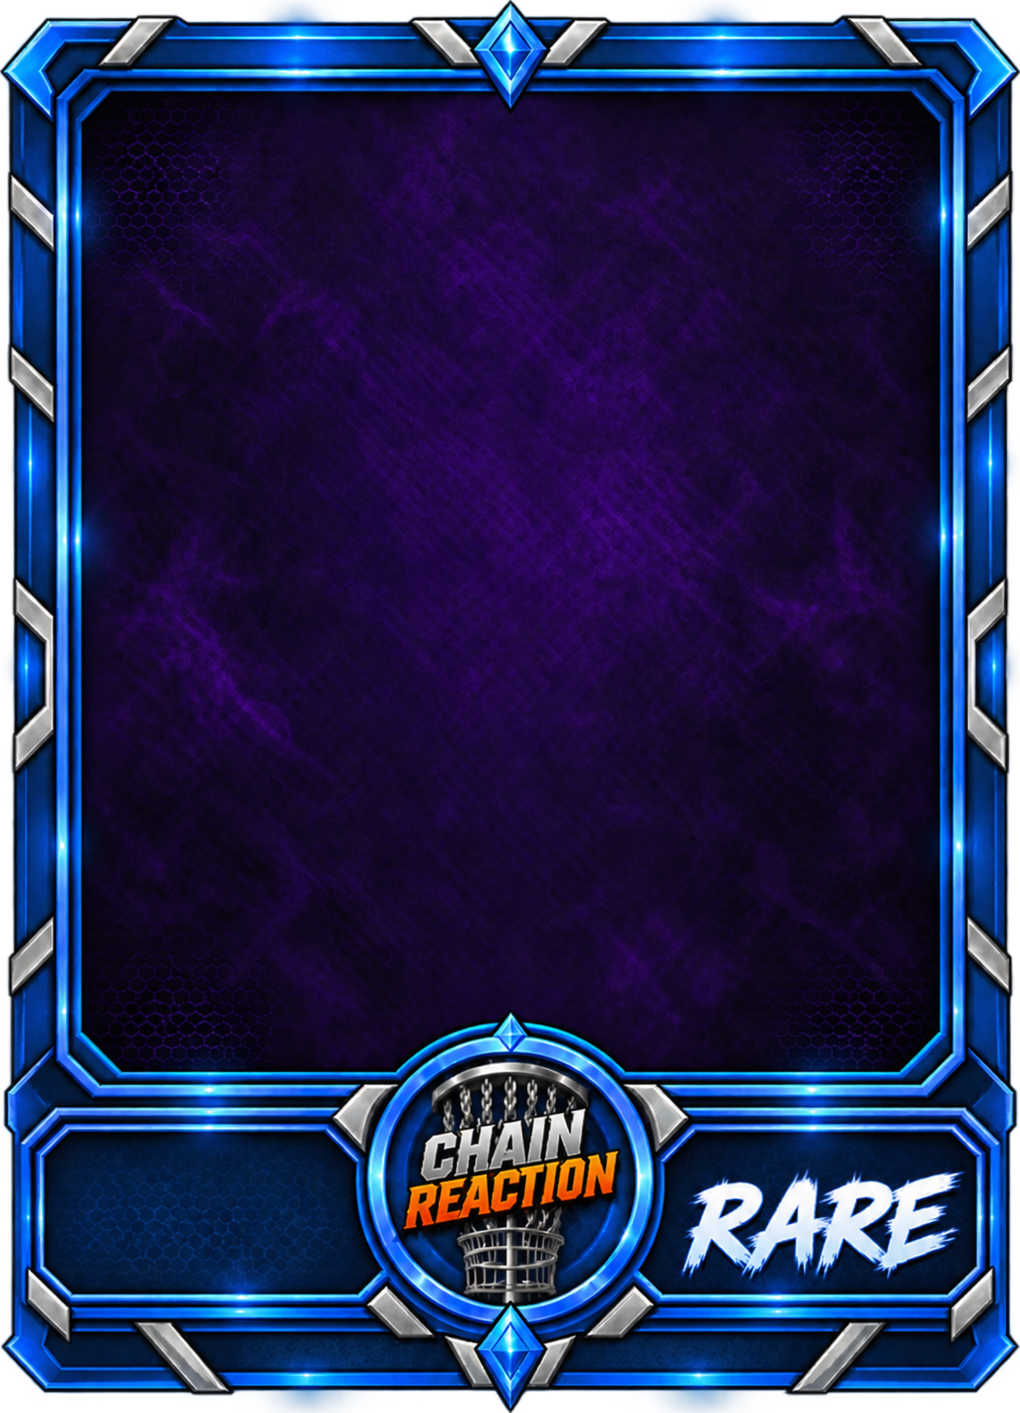
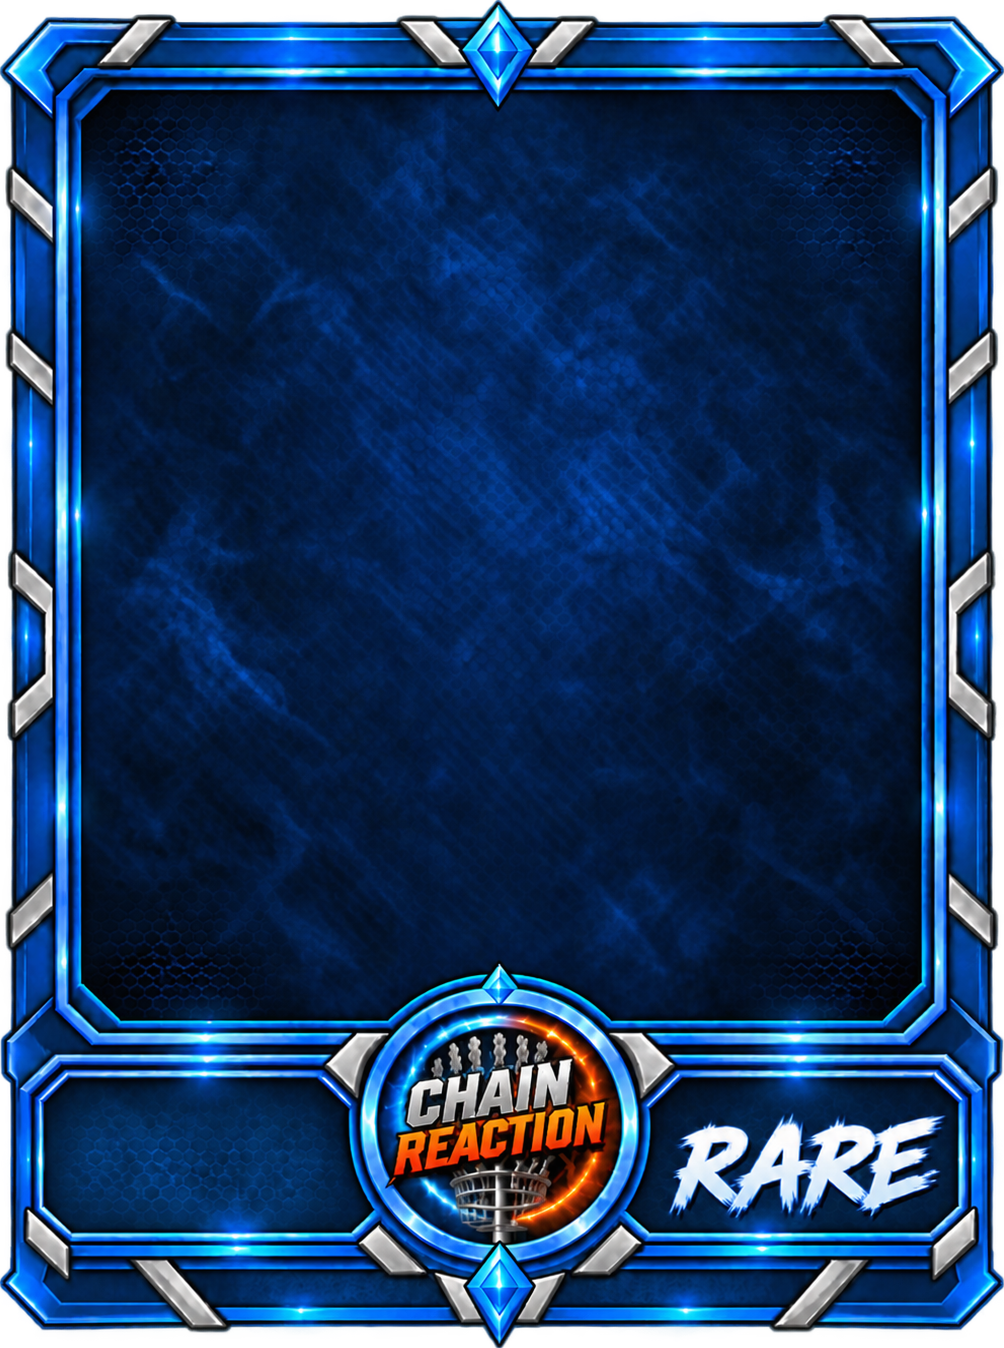
The fixed rare frame
Ratio 0.7448, and its window and foot bar measured off it the same way
as the others — no numbers carried over from the frame it replaces.

All fourteen rare cards checked on it: nothing spilling, rules text
between 23.6 and 25.6px, which is the deck's standard size for all but
the wordiest.

diff --git a/docs/index.html b/docs/index.html
@@ -1197,7 +1197,7 @@ var CARD_ART = {"31":"assets/card_31.png","43":"assets/card_43.png","54":"assets
 var ART_BOXES = {"31":{"x":0.1065,"y":0.6841,"w":0.786,"h":0.1319,"ar":0.7347},"43":{"x":0.1054,"y":0.7005,"w":0.7902,"h":0.1171,"ar":0.7242},"54":{"x":0.1065,"y":0.6968,"w":0.7889,"h":0.1286,"ar":0.723},"57":{"x":0.1061,"y":0.6655,"w":0.7877,"h":0.1597,"ar":0.7453},"59":{"x":0.1037,"y":0.7018,"w":0.7916,"h":0.1287,"ar":0.7187}};
 /* One frame per rarity, worn by every card of that rarity with no painting of
    its own. The same shape as an art box, plus the picture to wear. */
-var ART_FRAMES = {"common":{"image":"assets/frame_common.png","ar":0.742,"timing":{"x":0.058,"y":0.0445,"w":0.8841,"h":0.0328},"title":{"x":0.058,"y":0.0787,"w":0.8841,"h":0.0897},"text":{"x":0.0914,"y":0.1844,"w":0.8173,"h":0.5729},"kind":{"x":0.0707,"y":0.8732,"w":0.2682,"h":0.0641}},"epic":{"image":"assets/frame_epic.png","ar":0.7082,"timing":{"x":0.0851,"y":0.0938,"w":0.8308,"h":0.026},"title":{"x":0.0851,"y":0.1212,"w":0.8308,"h":0.0726},"text":{"x":0.118,"y":0.2075,"w":0.765,"h":0.4637},"kind":{"x":0.0783,"y":0.8233,"w":0.2573,"h":0.0527}},"rare":{"image":"assets/frame_rare.png","ar":0.7219,"timing":{"x":0.0892,"y":0.0686,"w":0.8353,"h":0.029},"title":{"x":0.0892,"y":0.0991,"w":0.8353,"h":0.08},"text":{"x":0.1225,"y":0.1932,"w":0.7686,"h":0.5103},"kind":{"x":0.0676,"y":0.8259,"w":0.2706,"h":0.0644}},"uncommon":{"image":"assets/frame_uncommon.png","ar":0.7502,"timing":{"x":0.0601,"y":0.0554,"w":0.8798,"h":0.0318},"title":{"x":0.0601,"y":0.088,"w":0.8798,"h":0.0872},"text":{"x":0.0936,"y":0.1914,"w":0.8128,"h":0.5565},"kind":{"x":0.0709,"y":0.8744,"w":0.2542,"h":0.0628}}};
+var ART_FRAMES = {"common":{"image":"assets/frame_common.png","ar":0.742,"timing":{"x":0.058,"y":0.0445,"w":0.8841,"h":0.0328},"title":{"x":0.058,"y":0.0787,"w":0.8841,"h":0.0897},"text":{"x":0.0914,"y":0.1844,"w":0.8173,"h":0.5729},"kind":{"x":0.0707,"y":0.8732,"w":0.2682,"h":0.0641}},"epic":{"image":"assets/frame_epic.png","ar":0.7082,"timing":{"x":0.0851,"y":0.0938,"w":0.8308,"h":0.026},"title":{"x":0.0851,"y":0.1212,"w":0.8308,"h":0.0726},"text":{"x":0.118,"y":0.2075,"w":0.765,"h":0.4637},"kind":{"x":0.0783,"y":0.8233,"w":0.2573,"h":0.0527}},"rare":{"image":"assets/frame_rare.png","ar":0.7448,"timing":{"x":0.0777,"y":0.0742,"w":0.8436,"h":0.0282},"title":{"x":0.0777,"y":0.1039,"w":0.8436,"h":0.0786},"text":{"x":0.1116,"y":0.1966,"w":0.7759,"h":0.5007},"kind":{"x":0.0657,"y":0.8242,"w":0.259,"h":0.0645}},"uncommon":{"image":"assets/frame_uncommon.png","ar":0.7502,"timing":{"x":0.0601,"y":0.0554,"w":0.8798,"h":0.0318},"title":{"x":0.0601,"y":0.088,"w":0.8798,"h":0.0872},"text":{"x":0.0936,"y":0.1914,"w":0.8128,"h":0.5565},"kind":{"x":0.0709,"y":0.8744,"w":0.2542,"h":0.0628}}};
 
 /*
  * A painted card with its words dropped into the panel the painting left empty.
@@ -1413,7 +1413,7 @@ applyCharacterNames();
  * plus the time it was built. Shown at the foot of the menu and of Settings, so
  * the group can hold two phones side by side and see who needs to reload.
  */
-var APP_VERSION = "v1.383 · 7 Sep 13:57";
+var APP_VERSION = "v1.384 · 7 Sep 13:58";
 function versionLine() {
   // Just the number on screen — the full build stamp stays in APP_VERSION for
   // the lobby's stale-phone check. The arrow beside it goes and looks for a

diff --git a/docs/sw.js b/docs/sw.js
@@ -1,5 +1,5 @@
 /* Generated by web/build.js — do not edit. */
-const PAGE_CACHE = "chainreaction-page-daa2c1f08216";
+const PAGE_CACHE = "chainreaction-page-0ace8fa74568";
 /* Named once and kept. What is in it is decided file by file, below. */
 const ASSET_CACHE = "chainreaction-assets";
 const PAGE_FILES = [
@@ -55,7 +55,7 @@ const ASSET_HASHES = {
   "assets/character_15.png": "0b91425dab21",
   "assets/frame_common.png": "b951b6ff8b99",
   "assets/frame_epic.png": "5717ace1cde4",
-  "assets/frame_rare.png": "31bb651e48dc",
+  "assets/frame_rare.png": "1758a2d85b22",
   "assets/frame_uncommon.png": "9e42bba9fd97"
 };
 /* Where the last install wrote down what it stored. Not a real file — a key
